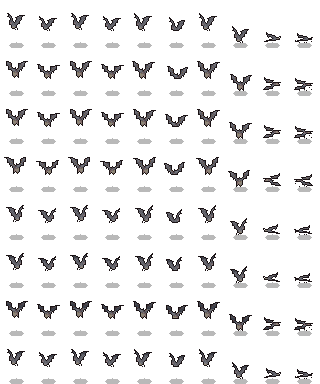
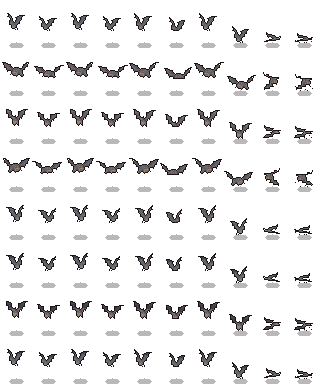
B3 SE natives (1004/1005, rebuild exit 0) + B6 Gravecaller keyframe batch 1 (8 plates): QA montage, Runs/LICENSES bookkeeping, continuation master

diff --git a/docs/prompts/continue-artwork-2026-09-14.md b/docs/prompts/continue-artwork-2026-09-14.md
@@ -1,0 +1,116 @@
+# Art Production Continuation — 2026-09-14 (P0 closed, P1 queued)
+
+*Master handoff for the image-generation lane. Read top to bottom before
+generating anything. Budget: **10 images per turn** — plan batches to land on
+that boundary. Lane law (binds every turn): write ONLY `assets/aigen/`,
+`docs/art/`, `docs/research-notes/`, `tools/atlaspack/`, `assets/LICENSES.md`,
+`docs/prompts/`. Never touch `engine/`, `client/`, `server/`, `shared/`,
+`tools/bots/`, `tools/mapgen/`, `data/`, `docs/tasks/`, `docs/devlog/`,
+`logs/`, `assets/final/`.*
+
+## Verify on entry (every turn, before any generation)
+
+```
+git log --oneline -3        # expect the batch-1 commit below at/near HEAD
+ls assets/aigen/mobs/1004_plague_bat/plates/   # expect S, SE, E
+ls assets/aigen/players/gravecaller/{m,f}/plates/
+python3 - <<'EOF'           # md5-distinctness spot check on any new batch
+from PIL import Image; import glob, hashlib
+for p in sorted(glob.glob('assets/aigen/players/*/*/plates/*.png')):
+    print(hashlib.md5(Image.open(p).convert('RGB').tobytes()).hexdigest()[:8], p)
+EOF
+```
+
+## DONE (this session, commit "B3 SE natives + B6 Gravecaller batch 1")
+
+- **P0 CLOSED.** Native SE plates generated, accepted, and shipped into the
+  sheets for `1004_plague_bat` + `1005_bonepicker_gnoll`
+  (`sh tools/atlaspack/b3_build.sh` → exit 0, 2026-09-14; SE provenance in
+  `derivation.json` = native; 1001–1003 rebuilt byte-identical — the chain is
+  deterministic, don't "fix" diffs on unchanged mobs).
+- **B6 Gravecaller batch 1 (8 plates)** — `players/gravecaller/{m,f}/plates/`:
+  walk_f0 S/SE/E + die_f3 S per sex (1774×887, keyed `#00FF00`, md5-distinct,
+  knife RIGHT / censer LEFT verified on all 8). Contact QA:
+  `docs/research-notes/qa/turn2026-09-14_batch1_montage.png`.
+- Bookkeeping: §Runs updated in all four touched `prompt.md` files;
+  `assets/LICENSES.md` row added. All plates/sheets remain
+  **UNVALIDATED in engine** (T-ART-01/04/05 pending) — never claim otherwise.
+
+## TODO queue (strict order; one 10-image batch per turn)
+
+### P1 — Players B6 (image lane)
+Per-sex AI keyframe template = **10 plates** (Ravager m/f are the completed
+reference set — compare counts against them):
+`walk_f0 S/SE/E (3) + die_f3 S/SE/E (3) + attack_f1 SE/E (2) + cast_f2 SE/E (2)`.
+
+1. **Next batch (10):** Gravecaller remaining 12 → take 10 now:
+   `gc_{m,f}_die_f3_{SE,E}` (4), `gc_{m,f}_attack_f1_{SE,E}` (4),
+   `gc_{m,f}_cast_f2_{SE,E}` first 2 (pick m cast SE + f cast SE).
+2. **Batch after (2 + 8):** last 2 Gravecaller cast plates, then Cultist m/f
+   walk_f0 S/SE/E + die_f3 S (8 of 20).
+3. Cultist remainder (12) spills into the following turn(s) the same way.
+- Prompts are FROZEN per class/sex in `players/<class>/<sex>/prompt.md`
+  (PREFIX/SUBJECT/PALETTE/NEGATIVE + §Runs). Never re-word mid-class; append
+  the exact final prompt line per generation under §Runs.
+- Prompt hardening that made the Ravager regen + this batch pass (reuse it):
+  frozen core + pose line ("walking mid-stride contact pose, left leg
+  forward", "final death frame: collapsed… knife dropped") + facing line
+  ("facing the viewer front-on (SOUTH)" / "3/4 view facing SOUTH-EAST" /
+  "strict side profile facing EAST") + flat pure #00FF00 background, no
+  painted shadows, crisp square pixels, whole figure in frame.
+- Acceptance checks per plate: md5-distinct; corners ≈ (0–13, 247–252, 1–21);
+  weapon RIGHT hand all dirs; no painted shadow; pose matches anim;
+  accepted → §Runs line, rejected → regenerate in a later batch, never keep.
+- After a class closes (20 plates): SW/W/NW/N/NE via img2img ≤ 0.35 denoise
+  (NEVER mirror — weapon hand), hand-inbetween the non-key frames, then
+  `bhpix` chain → `pack_atlas` → `bh_qa_sheet.py` triptych → LICENSES.
+  NOTE: no `bh_player_sheet.py` exists yet — Ravager/GC/Cultist sheet packing
+  is still manual (`atlas.draft.json` = the contract, 736×384, 23 cols).
+  Stale-bookkeeping fix owed: `players/ravager/{m,f}/BRIEF.md` still say
+  "no art generated" — refresh status lines when touching those files.
+
+### P2 — NPCs final
+Marta (wireKind 64) + Bounty Board (66) have **no sheets at all**; 67–73
+overwrite the B5 procedural placeholders (`b5_npc_proxy.py`) with AI idle4×8
++ 96×96 portraits (`portrait_neutral/sneer` for Marta per REGISTRY).
+
+### P3 — Icons B7
+Items 2001–5103 (`icons/items/BRIEF.md`), skills ch1–ch8
+(`icons/skills/BRIEF.md`; 2 need hand redraw), UI chrome
+(`icons/ui/BRIEF.md`). 32×32 + 24×24 in one sheet; 24px cap on brights.
+
+### P4 — VFX B8
+31 strips per `docs/art/50-vfx.md` → `vfx/<group>/<nn>_<slug>/`, ship
+`strip.png` AND 8-row packed twin (D8 loader note in REGISTRY).
+
+### P5–P7
+Castle terrain plates (`bh_terrain.py` chain, D6/T-ART-12) · unshipped mob
+roster ×13 (`mobs/_gdd_roster_unshipped/`) · paperdoll refine states.
+
+## Hand-fix checklist (after quantize, in this order — hand work, never re-prompt)
+
+1. Outline gaps at claws/teeth/tail tip/weapon tip/censer chain.
+2. Weapon/attachment RIGHT hand in all 8 dirs (img2img for W-side, no mirrors).
+3. Feet on anchor row (players 42; body ≤ 43 px, rows 0–42, `fit_to_cell(43)`);
+   no painted shadows (alpha-70 ellipse is added by the chain).
+4. Kill pixels above luma 200 unless light source / eye glint / bone highlight.
+5. No accent hue (violet/arterial/choir-gold) on skin/cloth/terrain gear;
+   curse violet never `#8B5CF6`.
+6. Shoulder width post-downscale (Ravager 14 / Cultist 11 / Gravecaller 10 px
+   on the S frame) — adjust by hand.
+7. Bat only: body bottom ≈ y30, shadow ellipse y45 (hover read).
+
+## Pipeline cheat sheet
+
+```
+sh tools/atlaspack/b3_build.sh                       # mobs 1001–1005, exit 0 = all gates
+python3 tools/atlaspack/bh_mob_sheet.py <id> ...     # per-mob chain (flags in _pipeline/README.md)
+python3 tools/atlaspack/bh_pack_sheet.py <cells> <out> --pad-missing   # WIP only, never ship padded
+python3 tools/atlaspack/bh_qa_sheet.py <png> --json <json> --kind sheet \
+  --plate docs/research-notes/style-tile/plate_fields_mud_b0.png --out docs/research-notes/qa/<prefix>
+```
+
+Batch flow: plates → `bhpix` chain → cells → pack → QA triptych into
+`docs/research-notes/qa/` → `assets/LICENSES.md` row → drop. One `## Runs`
+line per generation (date · model or "undisclosed" · seed · dirs · accepted).
+Every output stays tagged **UNVALIDATED in engine**.

diff --git a/assets/LICENSES.md b/assets/LICENSES.md
@@ -33,6 +33,7 @@ section 7) requires this file to cover everything under assets/.
 | `assets/aigen/npcs/{bonesmith_twins,confessor,cove_fence,guard_ashen,guard_synod,pledge_registrar,castle_steward}/{sheet.png,sheet.json,palette.png,portrait.png}` | **B5 procedural placeholder NPC sheets**, 2026-09-12, generated by `tools/atlaspack/b5_npc_proxy.py` (Pillow primitives + `bhpix.outline` / `bhpix.rim_light`; deterministic). v1 atlas schema, 8 dir × idle4 frames, per-folder anchorY matching each reserved `atlas.draft.json`; all 7 sheets pass `bh_qa_sheet.py --kind sheet` (colours ≤ 32, feet on anchor, R-LUMA day ≥ 25 / night ≥ 15 over B0 fields plate luma 51). These are placeholders and are overwritten in-place by the final B5 AI plates when those ship — no loader/contract changes needed. | Project code (MIT); no third-party pixels; no AI generation |
 | `docs/research-notes/qa/b5_*` | B5 QA triptychs + audits (`bh_qa_sheet.py`) for the 7 NPC sheets above, 2026-09-12 | Derived; numbers only |
 | `tools/atlaspack/b5_npc_proxy.py`, `tools/atlaspack/b5_build.sh` | B5 procedural NPC sheet generator + build script (added 2026-09-12) | Project code (MIT) |
+| `assets/aigen/mobs/{1004_plague_bat,1005_bonepicker_gnoll}/plates/*_SE_4x_raw.png` (2 plates) + rebuilt `sheet.png`/`derivation.json`/`pack_report.json`, `assets/aigen/players/gravecaller/{m,f}/plates/*_4x_raw.png` (8 plates: walk_f0 S/SE/E + die_f3 S per sex), `docs/research-notes/qa/turn2026-09-14_*` (batch montage + SE zooms) | **B3 native SE plates + B3 rebuild (exit 0) + B6 Gravecaller keyframe batch 1**, 2026-09-14, Arena Agent Mode image generation, model/version **undisclosed** (provider-abstracted), 1774×887 keyed `#00FF00`, hardened pixel/green-screen prompts recorded in each `prompt.md` §Runs; md5-distinct, nothing traced | AI-generated, research/prototype; provisional pending in-engine validation |
 | Everything else (Sprint 2+) | not yet shipped | — |
 
 Rules: free/placeholder packs require an entry with upstream URL + license.

diff --git a/assets/aigen/players/gravecaller/f/prompt.md b/assets/aigen/players/gravecaller/f/prompt.md
@@ -31,4 +31,9 @@ Full prompt = PREFIX + ", " + SUBJECT + ", palette: " + PALETTE + " --neg " + NE
 32×48 (body ≤ 43 px; D2 ruled) · idle1+walk6+attack3+cast4+hurt2+die4+gib3 → 23 cols × 8 rows = 736×384
 
 ## Runs
-_(none yet — one line per generation: date · model or "undisclosed" · seed if known · which dirs · accepted y/n)_
+
+- walk_f0 S · 2026-09-14 · Arena Agent Mode image generation, model **undisclosed** (provider-abstracted), 1774×887 keyed, hardened pixel/green-screen prompt (Ravager-regen pattern) · seed n/a · SUBJECT + "walking mid-stride contact pose, left leg forward, facing the viewer front-on (SOUTH)" · accepted **y** (knife RIGHT, censer LEFT, robe stride, no painted shadow)
+- walk_f0 SE · 2026-09-14 · same provider, model **undisclosed** · seed n/a · SUBJECT + walk contact pose, "3/4 view facing SOUTH-EAST" · accepted **y**
+- walk_f0 E · 2026-09-14 · same provider, model **undisclosed** · seed n/a · SUBJECT + walk contact pose, "strict side profile facing EAST" · accepted **y**
+- die_f3 S · 2026-09-14 · same provider, model **undisclosed** · seed n/a · SUBJECT + "final death frame: collapsed and crumpled face-down, robe pooled, censer fallen beside the left hand, knife dropped" · accepted **y**
+- 10/10 distinct (md5); contact sheet `docs/research-notes/qa/turn2026-09-14_batch1_montage.png`. Next batch: die_f3 SE/E, attack_f1 SE/E, cast_f2 SE/E both sexes (12 plates; 10-image turn budget).

diff --git a/assets/aigen/players/gravecaller/m/prompt.md b/assets/aigen/players/gravecaller/m/prompt.md
@@ -1,6 +1,6 @@
 # prompt.md — Gravecaller — male base (gravecaller/m)
 
-**Status:** DRAFT prompt package (B0.5 A1). No plate generated. Final prompts are appended verbatim under *Runs* when generation happens; the model/version goes to `assets/LICENSES.md` (write "undisclosed" if the provider hides it — never omit).
+**Status:** B6 keyframe batch 1 GENERATED 2026-09-14 — 4 plates in `plates/` (walk_f0 S/SE/E, die_f3 S; 1774×887 keyed `#00FF00`). Remaining AI keyframes: die_f3 SE/E, attack_f1 SE/E, cast_f2 SE/E (6). Offline contact-sheet QA pass (`docs/research-notes/qa/turn2026-09-14_batch1_montage.png`); in-engine UNVALIDATED. Final prompts are appended verbatim under *Runs*; the model/version goes to `assets/LICENSES.md` (write "undisclosed" if the provider hides it — never omit).
 
 ## Prompt
 

diff --git a/assets/aigen/mobs/1005_bonepicker_gnoll/prompt.md b/assets/aigen/mobs/1005_bonepicker_gnoll/prompt.md
@@ -1,6 +1,6 @@
 # prompt.md — Bonepicker Gnoll (1005)
 
-**Status:** B3 first-pass GENERATED 2026-09-08 (native S + E plates; SE/SW/W/NW/N/NE derived). Offline QA pass; in-engine UNVALIDATED. Final prompts are appended verbatim under *Runs* when generation happens; the model/version goes to `assets/LICENSES.md` (write "undisclosed" if the provider hides it — never omit).
+**Status:** B3 first-pass GENERATED 2026-09-08; **native SE plate added 2026-09-14** (S/SE/E all native; SW/W/NW/N/NE derived; SE mirror-derivation superseded). Offline QA pass; in-engine UNVALIDATED. Final prompts are appended verbatim under *Runs* when generation happens; the model/version goes to `assets/LICENSES.md` (write "undisclosed" if the provider hides it — never omit).
 
 ## Prompt
 

diff --git a/assets/aigen/mobs/1004_plague_bat/prompt.md b/assets/aigen/mobs/1004_plague_bat/prompt.md
@@ -1,6 +1,6 @@
 # prompt.md — Plague Bat (1004)
 
-**Status:** B3 first-pass GENERATED 2026-09-08 (native S + E plates; SE/SW/W/NW/N/NE derived). Offline QA pass; in-engine UNVALIDATED. Final prompts are appended verbatim under *Runs* when generation happens; the model/version goes to `assets/LICENSES.md` (write "undisclosed" if the provider hides it — never omit).
+**Status:** B3 first-pass GENERATED 2026-09-08; **native SE plate added 2026-09-14** (S/SE/E all native; SW/W/NW/N/NE derived; SE mirror-derivation superseded). Offline QA pass; in-engine UNVALIDATED. Final prompts are appended verbatim under *Runs* when generation happens; the model/version goes to `assets/LICENSES.md` (write "undisclosed" if the provider hides it — never omit).
 
 ## Prompt
 
